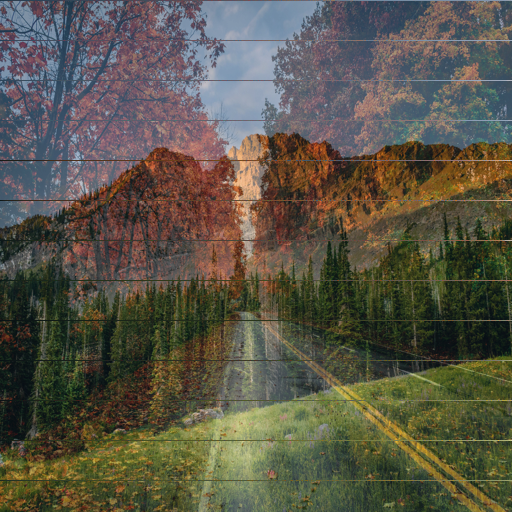
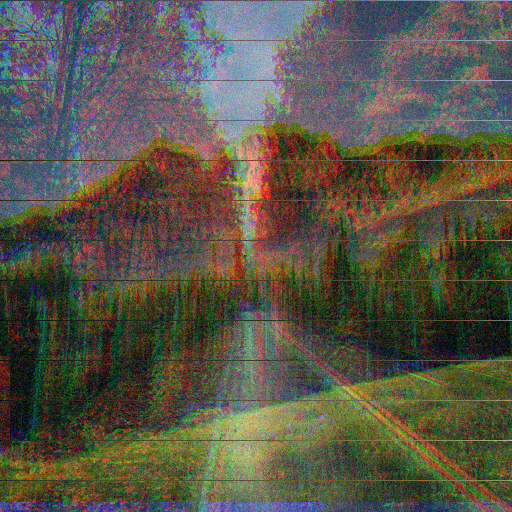
added image datasets

diff --git a/app.py b/app.py
@@ -1,12 +1,13 @@
 import streamlit as st
 from preprocess import load_and_prepare
-from hybrid_generator import blend_images
+from hybrid_generator import imaginative_hybrid
 from glitch_engine import rgb_shift, add_noise, pixel_sort
 from postprocess import enhance
-from ai_generator import ai_guided_glitch   
+from ai_generator import ai_guided_glitch
 from PIL import Image
 import os
-
+import random
+import glob
 
 st.set_page_config(page_title="HybridGlitch Art Generator", layout="centered")
 st.title("🎨 HybridGlitch Art Generator")
@@ -15,72 +16,101 @@ st.title("🎨 HybridGlitch Art Generator")
 os.makedirs("outputs", exist_ok=True)
 
 
-# Inputs
+# Dataset selection
 
-img1_file = st.file_uploader("Upload Image 1", type=["png", "jpg", "jpeg"])
-img2_file = st.file_uploader("Upload Image 2", type=["png", "jpg", "jpeg"])
+dataset_choice = st.selectbox(
+    "Choose from mini dataset or upload your own",
+    ["Animals", "Textures", "Landscapes", "Upload Your Own"]
+)
+
+def pick_random_image(category):
+    files = glob.glob(f"dataset/{category.lower()}/*.*")
+    if files:
+        return random.choice(files)
+    return None
+
+img1_file = None
+img2_file = None
+
+if dataset_choice != "Upload Your Own":
+    img1_file = pick_random_image(dataset_choice)
+    img2_file = pick_random_image(dataset_choice)
+else:
+    img1_file = st.file_uploader("Upload Image 1", type=["png","jpg","jpeg"])
+    img2_file = st.file_uploader("Upload Image 2", type=["png","jpg","jpeg"])
+
+
+# Style and parameters
 
 style = st.selectbox(
     "Choose Style",
-    ["Soft", "Glitchy", "Chaotic", "Neon"]
+    ["surreal", "glitchy", "soft", "chaotic", "organic", "neon"]
 )
 
-# Artistic controls
-shift = st.slider("RGB Shift Intensity", 0, 30, 10)
-noise = st.slider("Noise Intensity", 0.0, 0.3, 0.05)
+shift = st.slider("RGB Shift", 0, 30, 15)
+noise = st.slider("Noise Intensity", 0.0, 0.3, 0.1)
 
-# AI controls
 use_ai = st.checkbox("Use AI (CLIP-guided generation)")
-ai_prompt = st.text_input(
-    "AI Style Prompt",
-    "glitchy surreal neon digital art"
-)
+ai_prompt = st.text_input("AI Style Prompt", "glitchy surreal neon digital art")
 
 
-# Processing
-
+# Generate hybrid
 if img1_file is not None and img2_file is not None:
-
-    # Load & preprocess
     img1 = load_and_prepare(img1_file)
     img2 = load_and_prepare(img2_file)
 
-    # Hybrid base
-    hybrid = blend_images(img1, img2, alpha=0.5)
+    hybrid = imaginative_hybrid(img1, img2, mode="edges")
 
-    # AI-guided generation
-    if use_ai:
-        final, score = ai_guided_glitch(
-            base_image=hybrid,
-            prompt=ai_prompt,
-            iterations=8,
-            shift=shift,
-            noise=noise
-        )
-        st.caption(f"🧠 CLIP similarity score: {score:.3f}")
-
-    # Manual / non-AI pipeline
-    else:
-        if style in ["Glitchy", "Chaotic", "Neon"]:
+    # Apply style (manual)
+    if not use_ai:
+        from glitch_engine import rgb_shift, add_noise, pixel_sort
+        if style == "surreal":
             hybrid = rgb_shift(hybrid, shift)
             hybrid = add_noise(hybrid, noise)
-
-        if style == "Chaotic":
-            hybrid = pixel_sort(hybrid, strength=40)
+        elif style == "glitchy":
+            hybrid = pixel_sort(hybrid, 30)
+            hybrid = add_noise(hybrid, noise)
+        elif style == "soft":
+            import cv2
+            hybrid = cv2.GaussianBlur(hybrid, (7,7), 0)
+        elif style == "chaotic":
+            hybrid = pixel_sort(hybrid, 40)
+            hybrid = rgb_shift(hybrid, shift)
+            hybrid = add_noise(hybrid, noise)
+        elif style == "organic":
+            hybrid = rgb_shift(hybrid, shift)
+            hybrid = add_noise(hybrid, noise)
+        elif style == "neon":
+            import cv2
+            hsv = cv2.cvtColor(hybrid, cv2.COLOR_RGB2HSV)
+            hsv[...,1] = np.clip(hsv[...,1]*1.5,0,255)
+            hsv[...,2] = np.clip(hsv[...,2]*1.2,0,255)
+            hybrid = cv2.cvtColor(hsv, cv2.COLOR_HSV2RGB)
+            hybrid = rgb_shift(hybrid, shift)
 
         final = enhance(hybrid)
 
-  
+    # AI-guided generation
+    else:
+        final, score = ai_guided_glitch(
+            hybrid, ai_prompt,
+            iterations=15,
+            shift=shift,
+            noise=noise
+        )
+        st.caption(f"CLIP similarity score: {score:.3f}")
+
+
     # Output
-   
+
     st.image(final, caption="Generated Artwork", use_column_width=True)
 
     output_path = "outputs/hybrid_glitch.png"
     Image.fromarray(final).save(output_path)
 
-    with open(output_path, "rb") as f:
+    with open(output_path,"rb") as f:
         st.download_button(
-            label="⬇ Download Image",
+            label="Download Image",
             data=f,
             file_name="hybrid_glitch.png",
             mime="image/png"

diff --git a/hybrid_generator.py b/hybrid_generator.py
@@ -1,14 +1,23 @@
 import cv2
 import numpy as np
 
-def blend_images(img1, img2, mode="overlay", alpha=0.5):
-    if mode == "overlay":
-        return cv2.addWeighted(img1, alpha, img2, 1 - alpha, 0)
+def imaginative_hybrid(img1, img2, mode="edges", alpha=0.6):
+   
+    img2 = cv2.resize(img2, (img1.shape[1], img1.shape[0]))
+    hybrid = img1.copy()
 
-    elif mode == "mask":
-        gray = cv2.cvtColor(img2, cv2.COLOR_RGB2GRAY)
-        _, mask = cv2.threshold(gray, 127, 255, cv2.THRESH_BINARY)
-        mask = mask / 255.0
-        return (img1 * mask[..., None] + img2 * (1 - mask[..., None])).astype(np.uint8)
+    if mode == "edges":
+        gray = cv2.cvtColor(img1, cv2.COLOR_RGB2GRAY)
+        edges = cv2.Canny(gray, 50, 150)
+        mask = edges > 0
+        hybrid[mask] = img2[mask]
 
-    return img1
+    elif mode == "blend":
+        hybrid = cv2.addWeighted(img1, alpha, img2, 1-alpha, 0)
+
+    elif mode == "texture":
+        blur = cv2.GaussianBlur(img2, (15,15), 0)
+        texture = cv2.subtract(img2, blur)
+        hybrid = cv2.addWeighted(img1, alpha, texture, 1-alpha, 0)
+
+    return hybrid.astype(np.uint8)

diff --git a/ai_generator.py b/ai_generator.py
@@ -1,26 +1,22 @@
 from glitch_engine import rgb_shift, add_noise, pixel_sort
 from clip_guidance import clip_score
+import numpy as np
 
-def ai_guided_glitch(
-    base_image,
-    prompt,
-    iterations=10,
-    shift=10,
-    noise=0.05
-):
+def ai_guided_glitch(base_image, prompt, iterations=15, shift=15, noise=0.1):
     
-    best_image = base_image
-    best_score = clip_score(base_image, prompt)
+    best_image = base_image.copy()
+    best_score = clip_score(best_image, prompt)
 
     for i in range(iterations):
-        candidate = rgb_shift(best_image, shift)
-        candidate = add_noise(candidate, noise)
+        candidate = best_image.copy()
 
+        # Accumulate glitches
+        candidate = rgb_shift(candidate, shift + i*2)
+        candidate = add_noise(candidate, noise + i*0.02)
         if i % 2 == 0:
-            candidate = pixel_sort(candidate, strength=40)
+            candidate = pixel_sort(candidate, strength=30)
 
         score = clip_score(candidate, prompt)
-
         if score > best_score:
             best_score = score
             best_image = candidate

diff --git a/glitch_engine.py b/glitch_engine.py
@@ -1,27 +1,23 @@
-import numpy as np
 import cv2
+import numpy as np
 
-def rgb_shift(img, shift=10):
-  
+def rgb_shift(img, shift=15):
     r, g, b = cv2.split(img)
     r = np.roll(r, shift, axis=1)
-    b = np.roll(b, -shift, axis=0)
+    g = np.roll(g, -shift//2, axis=0)
+    b = np.roll(b, shift//3, axis=1)
     return cv2.merge([r, g, b])
 
-def add_noise(img, intensity=0.05):
-    
+def add_noise(img, intensity=0.1):
     noise = np.random.randn(*img.shape) * 255 * intensity
     noisy = img.astype(np.float32) + noise
     return np.clip(noisy, 0, 255).astype(np.uint8)
 
-def pixel_sort(img, strength=50):
-   
+def pixel_sort(img, strength=30):
     out = img.copy()
     h, w, _ = img.shape
-
     for y in range(0, h, strength):
         row = out[y]
         brightness = row.sum(axis=1)
         out[y] = row[np.argsort(brightness)]
-
     return out

diff --git a/clip_guidance.py b/clip_guidance.py
@@ -1,14 +1,12 @@
 import torch
 import clip
-import numpy as np
 from PIL import Image
 
-# Load CLIP model (CPU)
 device = "cpu"
 model, preprocess = clip.load("ViT-B/32", device=device)
 
 def clip_score(image_np, prompt):
-   
+    
     image = Image.fromarray(image_np)
     image_input = preprocess(image).unsqueeze(0).to(device)
     text_input = clip.tokenize([prompt]).to(device)

diff --git a/postprocess.py b/postprocess.py
@@ -1,5 +1,4 @@
 import cv2
 
 def enhance(img, contrast=1.2, brightness=10):
-
     return cv2.convertScaleAbs(img, alpha=contrast, beta=brightness)
